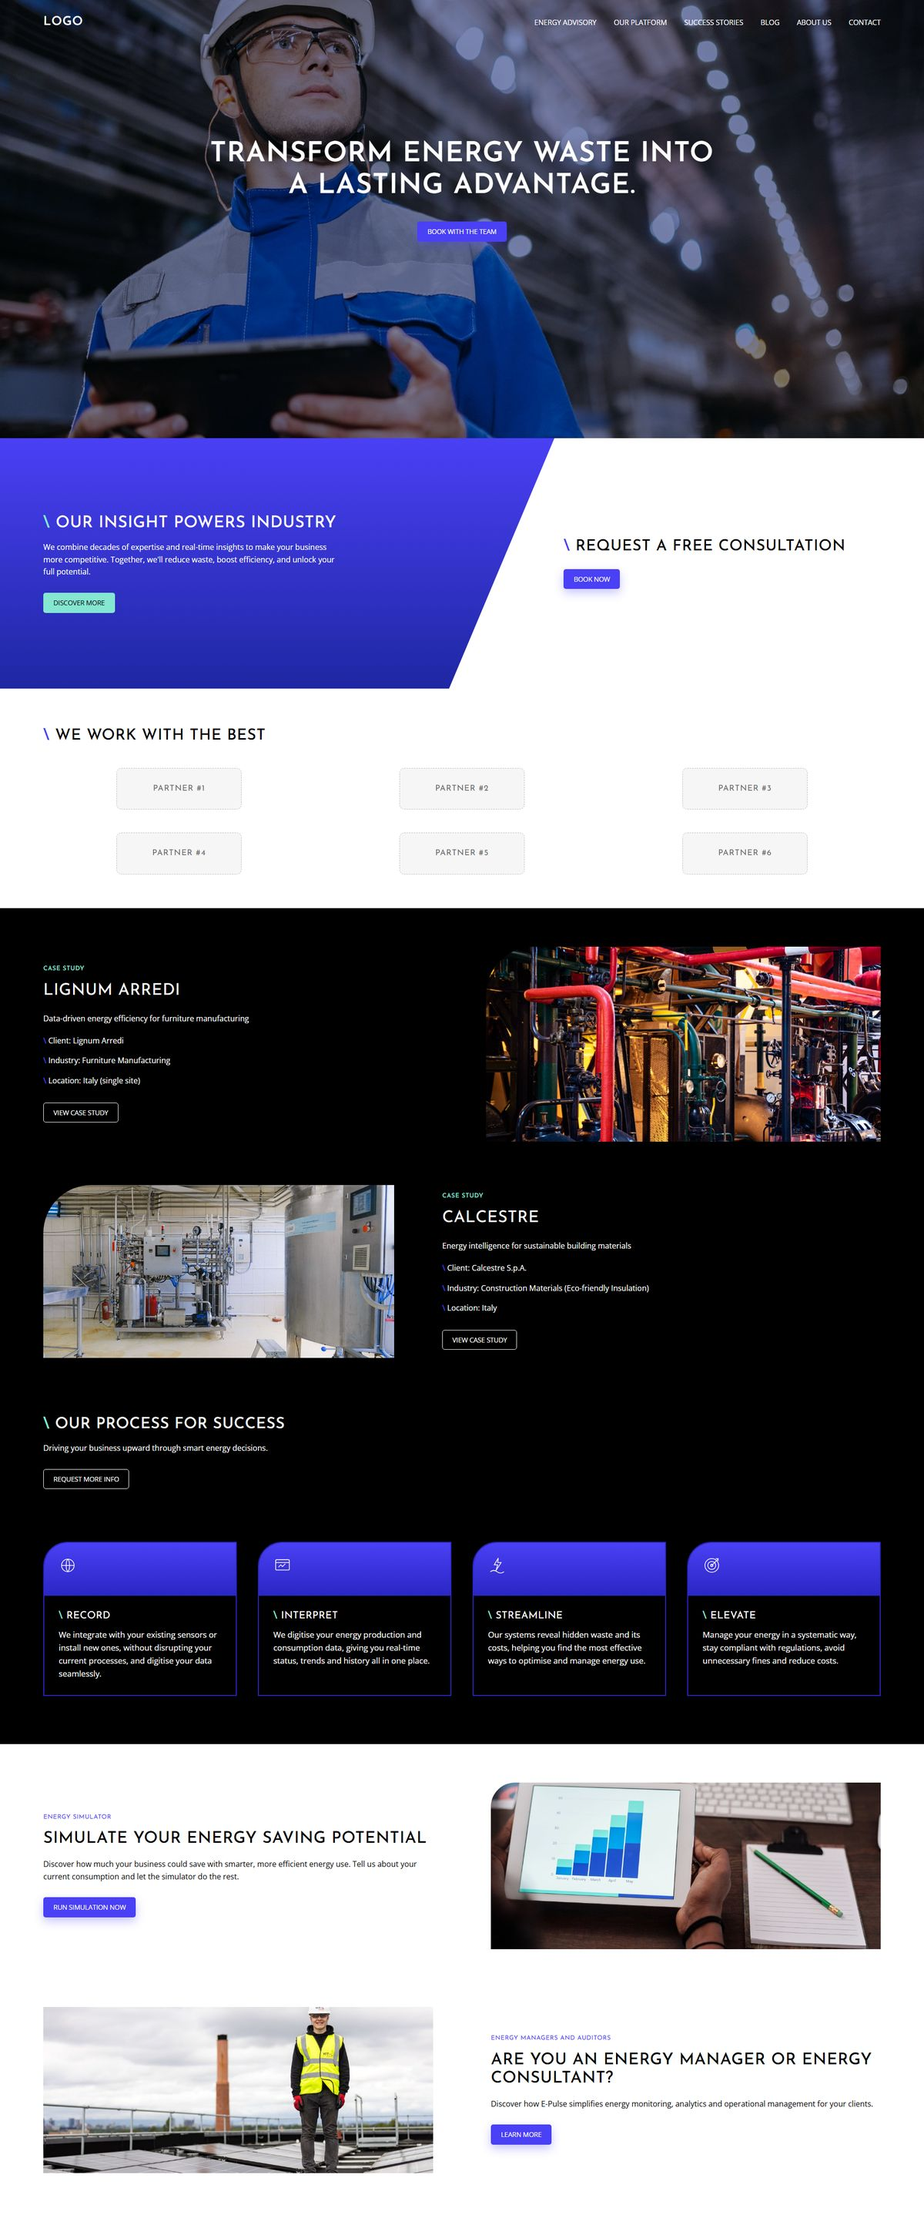
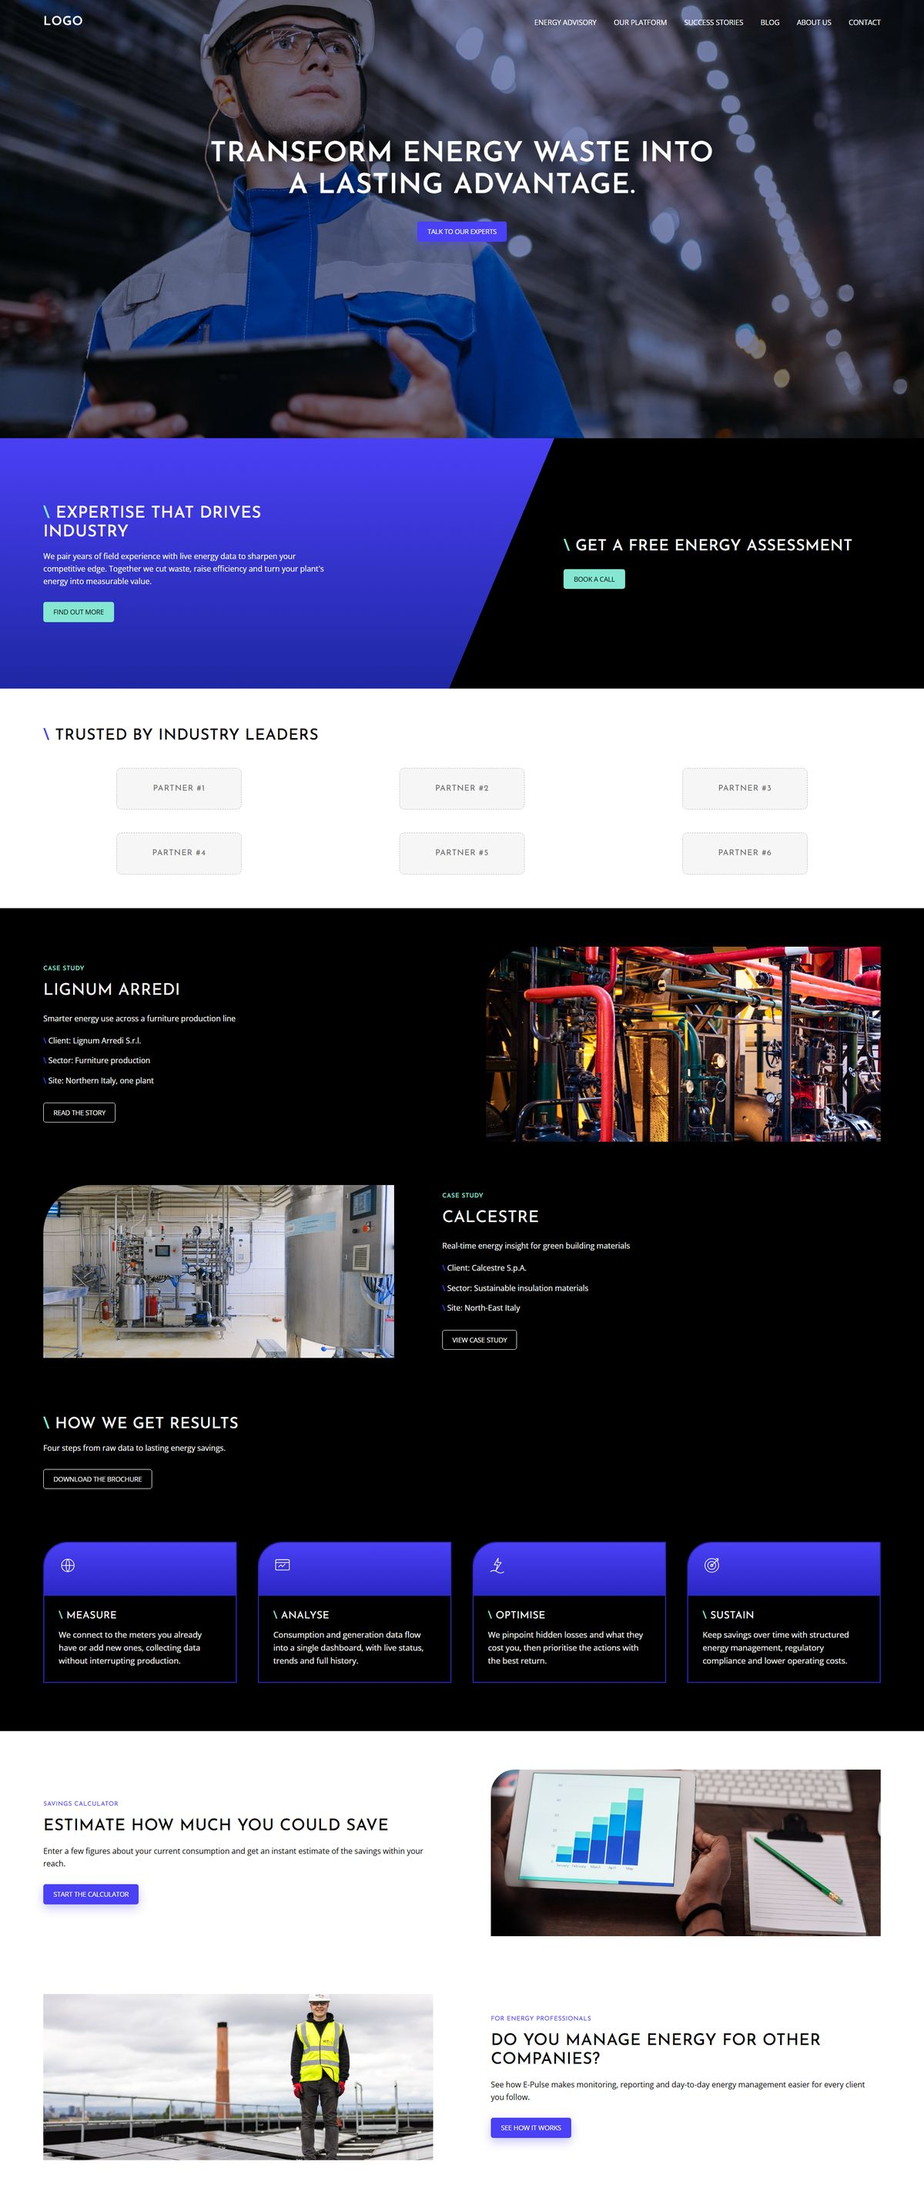
Energy demo: rewritten copy, black background behind consultation block

diff --git a/energia/assets/css/main.css b/energia/assets/css/main.css
@@ -1,1 +1,1 @@
-*,*::before,*::after{box-sizing:border-box}html{scroll-behavior:smooth}body{margin:0;background:#fff;color:#000;font:400 16px/1.6 "Open Sans",system-ui,sans-serif;-webkit-font-smoothing:antialiased}img{display:block;max-width:100%;height:auto}a{color:inherit}h1,h2,h3{margin:0;font-family:"Josefin Sans",sans-serif;font-weight:500;text-transform:uppercase;letter-spacing:.02em;line-height:1.15}.btn{display:inline-block;padding:13px 20px;border:1px solid rgba(0,0,0,0);border-radius:5px;font:400 .85rem/1 "Open Sans",system-ui,sans-serif;text-transform:uppercase;text-decoration:none;transition:filter .2s,background .2s,color .2s}.btn:hover{filter:brightness(1.1)}.btn--violet{background:#4a40f5;color:#fff;box-shadow:0 8px 20px rgba(74,64,245,.3)}.btn--teal{background:#85e6d1;color:#000}.btn--outline{border-color:#fff;color:#fff}.btn--outline:hover{background:#fff;color:#000}.slash::before{content:"\\ ";color:#85e6d1;font-weight:600}.slash--violet::before{color:#4a40f5}.kicker{display:block;margin-bottom:20px;font:600 .8rem/1 "Josefin Sans",sans-serif;letter-spacing:.04em;text-transform:uppercase;color:#85e6d1}.kicker--violet{color:#4a40f5;font-weight:400}.header{position:absolute;inset:0 0 auto;z-index:10;color:#fff}.header__inner{display:flex;align-items:center;justify-content:space-between;padding:28px clamp(20px,4.7vw,90px)}.header__toggle{display:flex;flex-direction:column;gap:5px;padding:10px;border:0;background:none;cursor:pointer}.header__toggle span{width:24px;height:2px;background:#fff}@media(min-width: 1100px){.header__toggle{display:none}}.header__nav{display:none;position:absolute;top:90px;left:0;right:0;flex-direction:column;padding:12px clamp(20px,4.7vw,90px) 20px;background:rgba(0,0,0,.92)}.header__nav.is-open{display:flex}@media(min-width: 1100px){.header__nav{display:flex;position:static;flex-direction:row;gap:36px;padding:0;background:none}}.header__nav a{padding:8px 0;font:400 .92rem "Open Sans",system-ui,sans-serif;text-transform:uppercase;text-decoration:none}.header__nav a:hover{color:#85e6d1}.logo{font:600 1.6rem/1 "Josefin Sans",sans-serif;letter-spacing:.04em;text-transform:uppercase;text-decoration:none}.hero{display:flex;flex-direction:column;align-items:center;justify-content:center;gap:40px;min-height:600px;padding:140px 20px 80px;text-align:center;color:#fff;background:linear-gradient(rgba(10, 30, 110, 0.55), rgba(10, 30, 110, 0.55)),url("../img/hero.jpg") center 30%/cover;background-blend-mode:multiply}@media(min-width: 1100px){.hero{min-height:910px;padding-bottom:260px}}.hero h1{font-size:clamp(2rem,4.2vw,3.6rem);font-weight:600;text-shadow:0 2px 20px rgba(0,0,0,.3)}.insight{display:grid;background:#fff}@media(min-width: 1100px){.insight{grid-template-columns:1fr 1fr;min-height:520px}}.insight__panel{display:flex;flex-direction:column;justify-content:center;align-items:flex-start;padding:64px clamp(20px,4.7vw,90px);background:linear-gradient(180deg, #4a40f5, #1e27a2);color:#fff}@media(min-width: 1100px){.insight__panel{grid-column:1/3;grid-row:1;width:60%;padding-right:22%;clip-path:polygon(0 0, 100% 0, 81% 100%, 0 100%)}}.insight__panel h2{margin-bottom:18px;font-size:clamp(1.5rem,2.2vw,2.1rem)}.insight__panel p{max-width:610px;margin:0 0 30px;font-size:1rem}.insight__cta{display:flex;flex-direction:column;justify-content:center;align-items:flex-start;gap:28px;padding:56px clamp(20px,4.7vw,90px)}@media(min-width: 1100px){.insight__cta{grid-column:2;grid-row:1;padding:0 clamp(20px,4.7vw,90px) 0 22%}}.insight__cta h2{font-size:clamp(1.4rem,2vw,2rem)}.clients{padding:80px clamp(20px,4.7vw,90px) 70px}.clients h2{margin-bottom:48px;font-size:clamp(1.4rem,2vw,2rem)}.clients__grid{display:grid;grid-template-columns:repeat(2, 1fr);gap:48px 24px;margin:0;padding:0;list-style:none}@media(min-width: 768px){.clients__grid{grid-template-columns:repeat(3, 1fr)}}.partner{display:grid;place-items:center;width:100%;max-width:260px;aspect-ratio:3/1;margin:0 auto;border:1.5px dashed #bdbdbd;border-radius:10px;background:#f6f6f6;font:400 1.05rem/1 "Josefin Sans",sans-serif;letter-spacing:.06em;text-transform:uppercase;color:#6b6b6b}.cases{display:grid;gap:90px;padding:80px clamp(20px,4.7vw,90px) 40px;background:#000;color:#fff}.case{display:grid;gap:32px;align-items:center}@media(min-width: 1100px){.case{grid-template-columns:1fr 1fr;gap:100px}}.case h3{margin-bottom:26px;font-size:2.1rem;font-weight:400}.case p{margin:0 0 20px}.case ul{margin:0 0 32px;padding:0;list-style:none}.case li{margin-bottom:16px}.case li::before{content:"\\ ";color:#4a40f5;font-weight:700}.case__img{width:100%;aspect-ratio:770/380;object-fit:cover;border-top-left-radius:100px}@media(min-width: 1100px){.case--reverse{grid-template-columns:.8fr 1fr}.case--reverse .case__text{order:2}}.case--reverse .kicker{margin-bottom:20px}@media(min-width: 1100px){.case--reverse .case__img{aspect-ratio:770/380}}.process{padding:80px clamp(20px,4.7vw,90px) 100px;background:#000;color:#fff}.process>h2{margin-bottom:18px;font-size:clamp(1.4rem,2vw,2rem)}.process>p{margin:0 0 30px}.process__grid{display:grid;gap:44px;margin-top:110px}@media(min-width: 768px){.process__grid{grid-template-columns:repeat(2, 1fr)}}@media(min-width: 1100px){.process__grid{grid-template-columns:repeat(4, 1fr)}}.step{border:2px solid #2a26c4;border-top-left-radius:50px;overflow:hidden}.step__head{height:110px;padding:28px 30px;background:linear-gradient(180deg, #4a40f5, #2a26c4)}.step__head svg{width:38px;height:38px;fill:none;stroke:#fff;stroke-width:1.3}.step h3{margin:30px 30px 14px;font-size:1.3rem;font-weight:400}.step p{margin:0 30px 30px;font-size:1.05rem}.feature{display:grid;gap:36px;align-items:center;padding:80px clamp(20px,4.7vw,90px) 40px}@media(min-width: 1100px){.feature{grid-template-columns:1fr 1fr;gap:120px}}.feature h2{margin-bottom:20px;font-size:clamp(1.5rem,2.2vw,2.1rem)}.feature p{max-width:800px;margin:0 0 30px;font-size:1rem}.feature__img{width:100%;aspect-ratio:820/350;object-fit:cover;border-top-left-radius:50px}.feature--reverse{padding-bottom:100px}@media(min-width: 1100px){.feature--reverse .feature__text{order:2}}.feature--reverse .feature__img{border-radius:0}span.btn{pointer-events:none;cursor:default}
+*,*::before,*::after{box-sizing:border-box}html{scroll-behavior:smooth}body{margin:0;background:#fff;color:#000;font:400 16px/1.6 "Open Sans",system-ui,sans-serif;-webkit-font-smoothing:antialiased}img{display:block;max-width:100%;height:auto}a{color:inherit}h1,h2,h3{margin:0;font-family:"Josefin Sans",sans-serif;font-weight:500;text-transform:uppercase;letter-spacing:.02em;line-height:1.15}.btn{display:inline-block;padding:13px 20px;border:1px solid rgba(0,0,0,0);border-radius:5px;font:400 .85rem/1 "Open Sans",system-ui,sans-serif;text-transform:uppercase;text-decoration:none;transition:filter .2s,background .2s,color .2s}.btn:hover{filter:brightness(1.1)}.btn--violet{background:#4a40f5;color:#fff;box-shadow:0 8px 20px rgba(74,64,245,.3)}.btn--teal{background:#85e6d1;color:#000}.btn--outline{border-color:#fff;color:#fff}.btn--outline:hover{background:#fff;color:#000}.slash::before{content:"\\ ";color:#85e6d1;font-weight:600}.slash--violet::before{color:#4a40f5}.kicker{display:block;margin-bottom:20px;font:600 .8rem/1 "Josefin Sans",sans-serif;letter-spacing:.04em;text-transform:uppercase;color:#85e6d1}.kicker--violet{color:#4a40f5;font-weight:400}.header{position:absolute;inset:0 0 auto;z-index:10;color:#fff}.header__inner{display:flex;align-items:center;justify-content:space-between;padding:28px clamp(20px,4.7vw,90px)}.header__toggle{display:flex;flex-direction:column;gap:5px;padding:10px;border:0;background:none;cursor:pointer}.header__toggle span{width:24px;height:2px;background:#fff}@media(min-width: 1100px){.header__toggle{display:none}}.header__nav{display:none;position:absolute;top:90px;left:0;right:0;flex-direction:column;padding:12px clamp(20px,4.7vw,90px) 20px;background:rgba(0,0,0,.92)}.header__nav.is-open{display:flex}@media(min-width: 1100px){.header__nav{display:flex;position:static;flex-direction:row;gap:36px;padding:0;background:none}}.header__nav a{padding:8px 0;font:400 .92rem "Open Sans",system-ui,sans-serif;text-transform:uppercase;text-decoration:none}.header__nav a:hover{color:#85e6d1}.logo{font:600 1.6rem/1 "Josefin Sans",sans-serif;letter-spacing:.04em;text-transform:uppercase;text-decoration:none}.hero{display:flex;flex-direction:column;align-items:center;justify-content:center;gap:40px;min-height:600px;padding:140px 20px 80px;text-align:center;color:#fff;background:linear-gradient(rgba(10, 30, 110, 0.55), rgba(10, 30, 110, 0.55)),url("../img/hero.jpg") center 30%/cover;background-blend-mode:multiply}@media(min-width: 1100px){.hero{min-height:910px;padding-bottom:260px}}.hero h1{font-size:clamp(2rem,4.2vw,3.6rem);font-weight:600;text-shadow:0 2px 20px rgba(0,0,0,.3)}.insight{display:grid;background:#000}@media(min-width: 1100px){.insight{grid-template-columns:1fr 1fr;min-height:520px}}.insight__panel{display:flex;flex-direction:column;justify-content:center;align-items:flex-start;padding:64px clamp(20px,4.7vw,90px);background:linear-gradient(180deg, #4a40f5, #1e27a2);color:#fff}@media(min-width: 1100px){.insight__panel{grid-column:1/3;grid-row:1;width:60%;padding-right:22%;clip-path:polygon(0 0, 100% 0, 81% 100%, 0 100%)}}.insight__panel h2{margin-bottom:18px;font-size:clamp(1.5rem,2.2vw,2.1rem)}.insight__panel p{max-width:610px;margin:0 0 30px;font-size:1rem}.insight__cta{display:flex;flex-direction:column;justify-content:center;align-items:flex-start;gap:28px;padding:56px clamp(20px,4.7vw,90px)}@media(min-width: 1100px){.insight__cta{grid-column:2;grid-row:1;padding:0 clamp(20px,4.7vw,90px) 0 22%}}.insight__cta{color:#fff}.insight__cta h2{font-size:clamp(1.4rem,2vw,2rem)}.clients{padding:80px clamp(20px,4.7vw,90px) 70px}.clients h2{margin-bottom:48px;font-size:clamp(1.4rem,2vw,2rem)}.clients__grid{display:grid;grid-template-columns:repeat(2, 1fr);gap:48px 24px;margin:0;padding:0;list-style:none}@media(min-width: 768px){.clients__grid{grid-template-columns:repeat(3, 1fr)}}.partner{display:grid;place-items:center;width:100%;max-width:260px;aspect-ratio:3/1;margin:0 auto;border:1.5px dashed #bdbdbd;border-radius:10px;background:#f6f6f6;font:400 1.05rem/1 "Josefin Sans",sans-serif;letter-spacing:.06em;text-transform:uppercase;color:#6b6b6b}.cases{display:grid;gap:90px;padding:80px clamp(20px,4.7vw,90px) 40px;background:#000;color:#fff}.case{display:grid;gap:32px;align-items:center}@media(min-width: 1100px){.case{grid-template-columns:1fr 1fr;gap:100px}}.case h3{margin-bottom:26px;font-size:2.1rem;font-weight:400}.case p{margin:0 0 20px}.case ul{margin:0 0 32px;padding:0;list-style:none}.case li{margin-bottom:16px}.case li::before{content:"\\ ";color:#4a40f5;font-weight:700}.case__img{width:100%;aspect-ratio:770/380;object-fit:cover;border-top-left-radius:100px}@media(min-width: 1100px){.case--reverse{grid-template-columns:.8fr 1fr}.case--reverse .case__text{order:2}}.case--reverse .kicker{margin-bottom:20px}@media(min-width: 1100px){.case--reverse .case__img{aspect-ratio:770/380}}.process{padding:80px clamp(20px,4.7vw,90px) 100px;background:#000;color:#fff}.process>h2{margin-bottom:18px;font-size:clamp(1.4rem,2vw,2rem)}.process>p{margin:0 0 30px}.process__grid{display:grid;gap:44px;margin-top:110px}@media(min-width: 768px){.process__grid{grid-template-columns:repeat(2, 1fr)}}@media(min-width: 1100px){.process__grid{grid-template-columns:repeat(4, 1fr)}}.step{border:2px solid #2a26c4;border-top-left-radius:50px;overflow:hidden}.step__head{height:110px;padding:28px 30px;background:linear-gradient(180deg, #4a40f5, #2a26c4)}.step__head svg{width:38px;height:38px;fill:none;stroke:#fff;stroke-width:1.3}.step h3{margin:30px 30px 14px;font-size:1.3rem;font-weight:400}.step p{margin:0 30px 30px;font-size:1.05rem}.feature{display:grid;gap:36px;align-items:center;padding:80px clamp(20px,4.7vw,90px) 40px}@media(min-width: 1100px){.feature{grid-template-columns:1fr 1fr;gap:120px}}.feature h2{margin-bottom:20px;font-size:clamp(1.5rem,2.2vw,2.1rem)}.feature p{max-width:800px;margin:0 0 30px;font-size:1rem}.feature__img{width:100%;aspect-ratio:820/350;object-fit:cover;border-top-left-radius:50px}.feature--reverse{padding-bottom:100px}@media(min-width: 1100px){.feature--reverse .feature__text{order:2}}.feature--reverse .feature__img{border-radius:0}span.btn{pointer-events:none;cursor:default}

diff --git a/energia/index.html b/energia/index.html
@@ -30,23 +30,23 @@
   <main>
     <section class="hero" id="top">
       <h1>Transform energy waste into<br>a lasting advantage.</h1>
-      <span class="btn btn--violet">Book with the team</span>
+      <span class="btn btn--violet">Talk to our experts</span>
     </section>
 
     <section class="insight" id="insight">
       <div class="insight__panel">
-        <h2 class="slash">Our insight powers industry</h2>
-        <p>We combine decades of expertise and real-time insights to make your business more competitive. Together, we'll reduce waste, boost efficiency, and unlock your full potential.</p>
-        <span class="btn btn--teal">Discover more</span>
+        <h2 class="slash">Expertise that drives industry</h2>
+        <p>We pair years of field experience with live energy data to sharpen your competitive edge. Together we cut waste, raise efficiency and turn your plant's energy into measurable value.</p>
+        <span class="btn btn--teal">Find out more</span>
       </div>
       <div class="insight__cta" id="consultation">
-        <h2 class="slash slash--violet">Request a free consultation</h2>
-        <span class="btn btn--violet">Book now</span>
+        <h2 class="slash">Get a free energy assessment</h2>
+        <span class="btn btn--teal">Book a call</span>
       </div>
     </section>
 
     <section class="clients">
-      <h2 class="slash slash--violet">We work with the best</h2>
+      <h2 class="slash slash--violet">Trusted by industry leaders</h2>
       <ul class="clients__grid">
         <li class="partner">Partner #1</li>
         <li class="partner">Partner #2</li>
@@ -62,13 +62,13 @@
         <div class="case__text">
           <span class="kicker">Case study</span>
           <h3>Lignum Arredi</h3>
-          <p>Data-driven energy efficiency for furniture manufacturing</p>
+          <p>Smarter energy use across a furniture production line</p>
           <ul>
-            <li>Client: Lignum Arredi</li>
-            <li>Industry: Furniture Manufacturing</li>
-            <li>Location: Italy (single site)</li>
+            <li>Client: Lignum Arredi S.r.l.</li>
+            <li>Sector: Furniture production</li>
+            <li>Site: Northern Italy, one plant</li>
           </ul>
-          <span class="btn btn--outline">View case study</span>
+          <span class="btn btn--outline">Read the story</span>
         </div>
         <img class="case__img" src="assets/img/case-1.jpg" alt="Industrial plant with pipes and machinery" width="1200" height="800" loading="lazy">
       </article>
@@ -76,11 +76,11 @@
         <div class="case__text">
           <span class="kicker">Case study</span>
           <h3>Calcestre</h3>
-          <p>Energy intelligence for sustainable building materials</p>
+          <p>Real-time energy insight for green building materials</p>
           <ul>
             <li>Client: Calcestre S.p.A.</li>
-            <li>Industry: Construction Materials (Eco-friendly Insulation)</li>
-            <li>Location: Italy</li>
+            <li>Sector: Sustainable insulation materials</li>
+            <li>Site: North-East Italy</li>
           </ul>
           <span class="btn btn--outline">View case study</span>
         </div>
@@ -89,49 +89,49 @@
     </section>
 
     <section class="process" id="process">
-      <h2 class="slash">Our process for success</h2>
-      <p>Driving your business upward through smart energy decisions.</p>
-      <span class="btn btn--outline">Request more info</span>
+      <h2 class="slash">How we get results</h2>
+      <p>Four steps from raw data to lasting energy savings.</p>
+      <span class="btn btn--outline">Download the brochure</span>
       <div class="process__grid">
         <article class="step">
           <div class="step__head"><svg viewBox="0 0 32 32" aria-hidden="true"><circle cx="16" cy="16" r="11"/><path d="M5 16h22M16 5c4 4 4 18 0 22M16 5c-4 4-4 18 0 22"/></svg></div>
-          <h3 class="slash">Record</h3>
-          <p>We integrate with your existing sensors or install new ones, without disrupting your current processes, and digitise your data seamlessly.</p>
+          <h3 class="slash">Measure</h3>
+          <p>We connect to the meters you already have or add new ones, collecting data without interrupting production.</p>
         </article>
         <article class="step">
           <div class="step__head"><svg viewBox="0 0 32 32" aria-hidden="true"><rect x="4" y="6" width="24" height="18" rx="2"/><path d="M4 11h24M9 19l4-4 3 3 5-5"/></svg></div>
-          <h3 class="slash">Interpret</h3>
-          <p>We digitise your energy production and consumption data, giving you real-time status, trends and history all in one place.</p>
+          <h3 class="slash">Analyse</h3>
+          <p>Consumption and generation data flow into a single dashboard, with live status, trends and full history.</p>
         </article>
         <article class="step">
           <div class="step__head"><svg viewBox="0 0 32 32" aria-hidden="true"><path d="M18 3l-7 12h6l-3 10 9-14h-6z"/><path d="M4 27c4-3 8-3 12 0s8 3 12 0"/></svg></div>
-          <h3 class="slash">Streamline</h3>
-          <p>Our systems reveal hidden waste and its costs, helping you find the most effective ways to optimise and manage energy use.</p>
+          <h3 class="slash">Optimise</h3>
+          <p>We pinpoint hidden losses and what they cost you, then prioritise the actions with the best return.</p>
         </article>
         <article class="step">
           <div class="step__head"><svg viewBox="0 0 32 32" aria-hidden="true"><circle cx="16" cy="16" r="12"/><circle cx="16" cy="16" r="7"/><circle cx="16" cy="16" r="2"/><path d="M16 16l11-11M23 4h4v4"/></svg></div>
-          <h3 class="slash">Elevate</h3>
-          <p>Manage your energy in a systematic way, stay compliant with regulations, avoid unnecessary fines and reduce costs.</p>
+          <h3 class="slash">Sustain</h3>
+          <p>Keep savings over time with structured energy management, regulatory compliance and lower operating costs.</p>
         </article>
       </div>
     </section>
 
     <section class="feature" id="simulator">
       <div class="feature__text">
-        <span class="kicker kicker--violet">Energy simulator</span>
-        <h2>Simulate your energy saving potential</h2>
-        <p>Discover how much your business could save with smarter, more efficient energy use. Tell us about your current consumption and let the simulator do the rest.</p>
-        <span class="btn btn--violet">Run simulation now</span>
+        <span class="kicker kicker--violet">Savings calculator</span>
+        <h2>Estimate how much you could save</h2>
+        <p>Enter a few figures about your current consumption and get an instant estimate of the savings within your reach.</p>
+        <span class="btn btn--violet">Start the calculator</span>
       </div>
       <img class="feature__img" src="assets/img/simulatore.jpg" alt="Tablet showing an energy consumption chart" width="1200" height="801" loading="lazy">
     </section>
 
     <section class="feature feature--reverse">
       <div class="feature__text">
-        <span class="kicker kicker--violet">Energy managers and auditors</span>
-        <h2>Are you an energy manager or energy consultant?</h2>
-        <p>Discover how E-Pulse simplifies energy monitoring, analytics and operational management for your clients.</p>
-        <span class="btn btn--violet">Learn more</span>
+        <span class="kicker kicker--violet">For energy professionals</span>
+        <h2>Do you manage energy for other companies?</h2>
+        <p>See how E-Pulse makes monitoring, reporting and day-to-day energy management easier for every client you follow.</p>
+        <span class="btn btn--violet">See how it works</span>
       </div>
       <img class="feature__img" src="assets/img/energy-manager.jpg" alt="Engineer standing among solar panels on a rooftop" width="1200" height="800" loading="lazy">
     </section>

diff --git a/index.html b/index.html
@@ -72,7 +72,7 @@
 
       <li class="project">
         <button class="project__preview" type="button" data-full="assets/img/energia.jpg" data-site="energia/" aria-label="Apri il sito: Efficienza energetica">
-          <img src="assets/img/energia.jpg" alt="Anteprima homepage di una società di efficienza energetica" loading="lazy" width="1200" height="2875">
+          <img src="assets/img/energia.jpg" alt="Anteprima homepage di una società di efficienza energetica" loading="lazy" width="1200" height="2858">
         </button>
         <div class="project__info">
           <span class="project__index">04</span>

diff --git a/energia/assets/scss/main.scss b/energia/assets/scss/main.scss
@@ -111,7 +111,7 @@ h1, h2, h3 { margin: 0; font-family: $head; font-weight: 500; text-transform: up
 // ---------- insight ----------
 .insight {
   display: grid;
-  background: $white;
+  background: $black;
 
   @include lg { grid-template-columns: 1fr 1fr; min-height: 520px; }
 
@@ -145,6 +145,8 @@ h1, h2, h3 { margin: 0; font-family: $head; font-weight: 500; text-transform: up
     padding: 56px $pad;
 
     @include lg { grid-column: 2; grid-row: 1; padding: 0 $pad 0 22%; }
+
+    color: $white;
 
     h2 { font-size: clamp(1.4rem, 2vw, 2rem); }
   }
